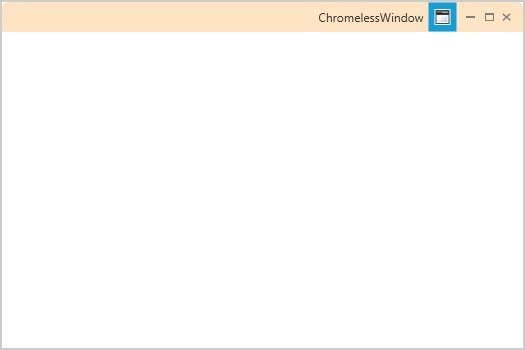
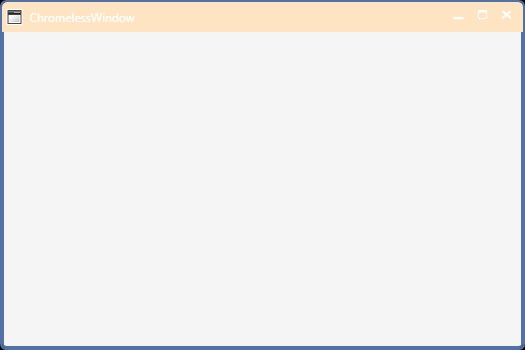
changes committed

Changed region(s): [[0.0, 0.0, 1.0, 1.0]]

diff --git a/wpf/Chromeless-Window/Styling-the-ChromelessWindow.md b/wpf/Chromeless-Window/Styling-the-ChromelessWindow.md
@@ -22,7 +22,7 @@ ChromelessWindow allows the end-user to write own templates for the TitleBar. Th
 xmlns="http://schemas.microsoft.com/winfx/2006/xaml/presentation"
 xmlns:x="http://schemas.microsoft.com/winfx/2006/xaml"
 Title="ChromelessWindow" Height="350" Width="525" TitleBarTemplate="{StaticResource TitleBarTemplateKey}"   
-syncfusion:SkinStorage.VisualStyle="Metro" x:Name="_chromelessWindow"    
+x:Name="_chromelessWindow"    
 xmlns:syncfusion="clr-namespace:Syncfusion.Windows.Shared;assembly=Syncfusion.Shared.WPF"  >
 </syncfusion:ChromelessWindow>
 
@@ -64,7 +64,7 @@ ChromelessWindow enables the user to write their own templates for the Title bu
 xmlns="http://schemas.microsoft.com/winfx/2006/xaml/presentation"
 xmlns:x="http://schemas.microsoft.com/winfx/2006/xaml"
 Title="ChromelessWindow" Height="350" Width="525" MaximizeButtonTemplate="{StaticResource MaxTemplateKey}" 
-syncfusion:SkinStorage.VisualStyle="Metro"    x:Name="_chromelessWindow"    
+x:Name="_chromelessWindow"    
 xmlns:syncfusion="clr-namespace:Syncfusion.Windows.Shared;assembly=Syncfusion.Shared.WPF" >
 <Grid>
 </Grid>
@@ -158,7 +158,7 @@ Then apply this style to the ChromelessWindow using Template Property
 xmlns="http://schemas.microsoft.com/winfx/2006/xaml/presentation"
 xmlns:x="http://schemas.microsoft.com/winfx/2006/xaml"
 Title="ChromelessWindow" Height="350" Width="525" Template="{StaticResource ChromelessWindowTemplate}"   
-syncfusion:SkinStorage.VisualStyle="Metro" x:Name="_chromelessWindow"    
+x:Name="_chromelessWindow"    
 xmlns:syncfusion="clr-namespace:Syncfusion.Windows.Shared;assembly=Syncfusion.Shared.WPF"  >
 </syncfusion:ChromelessWindow>
 
